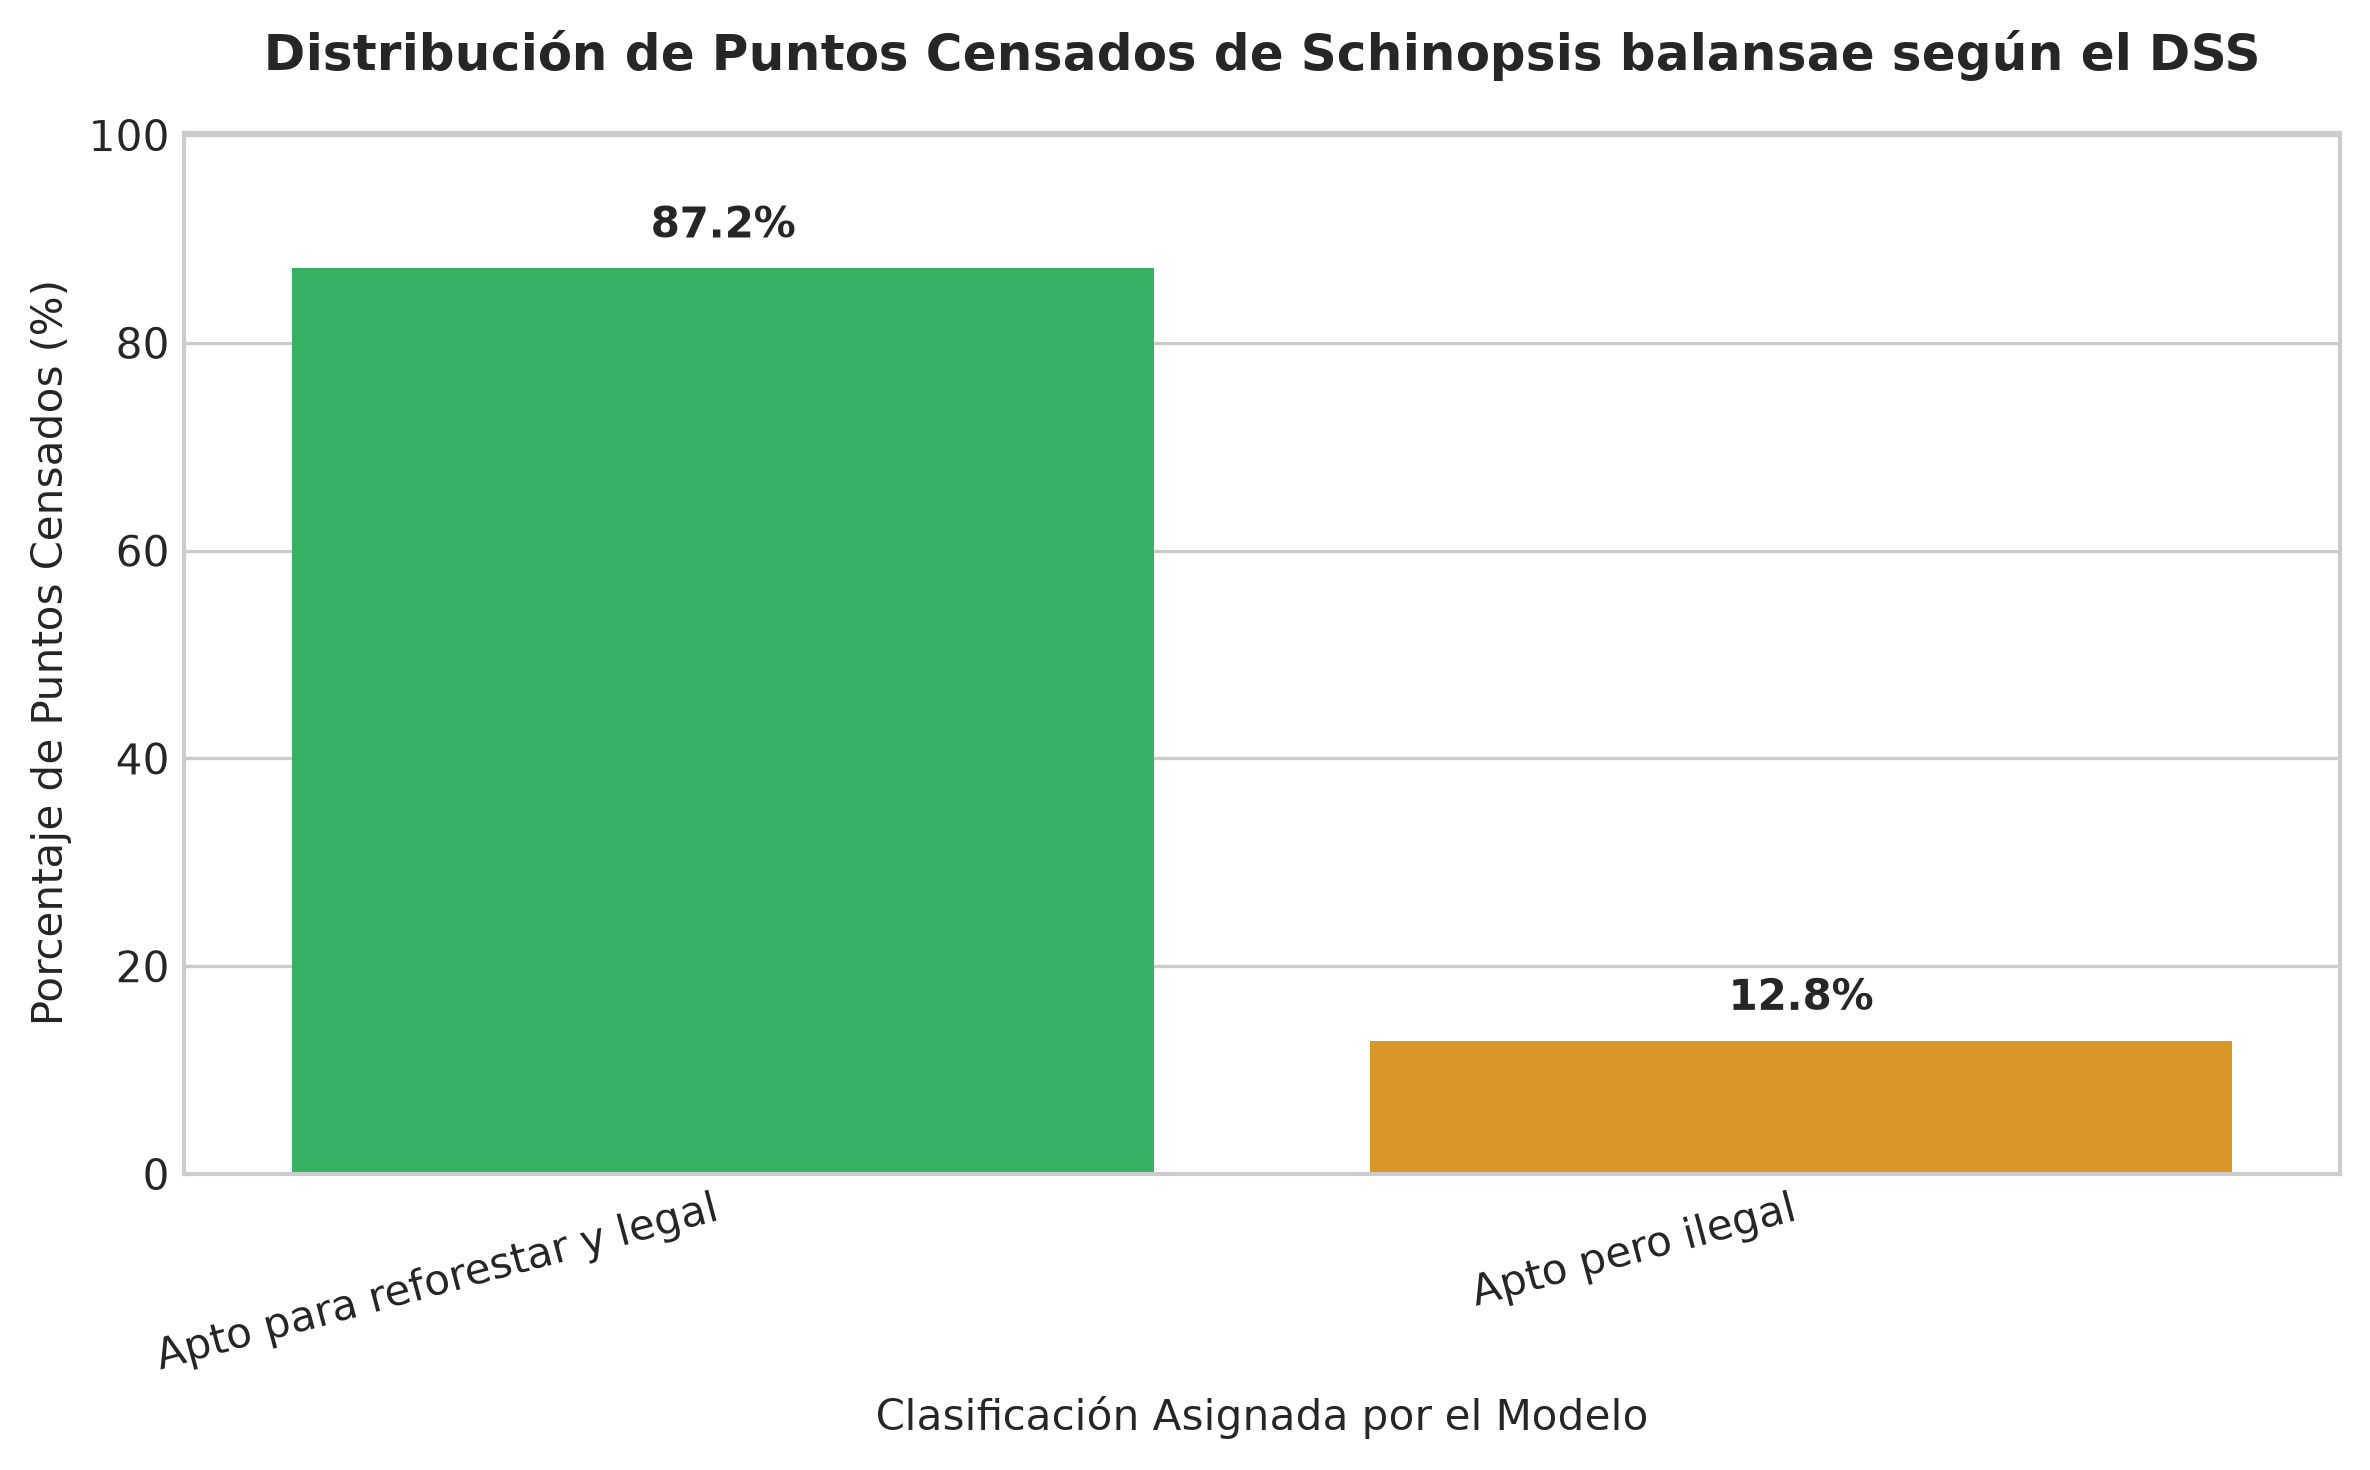
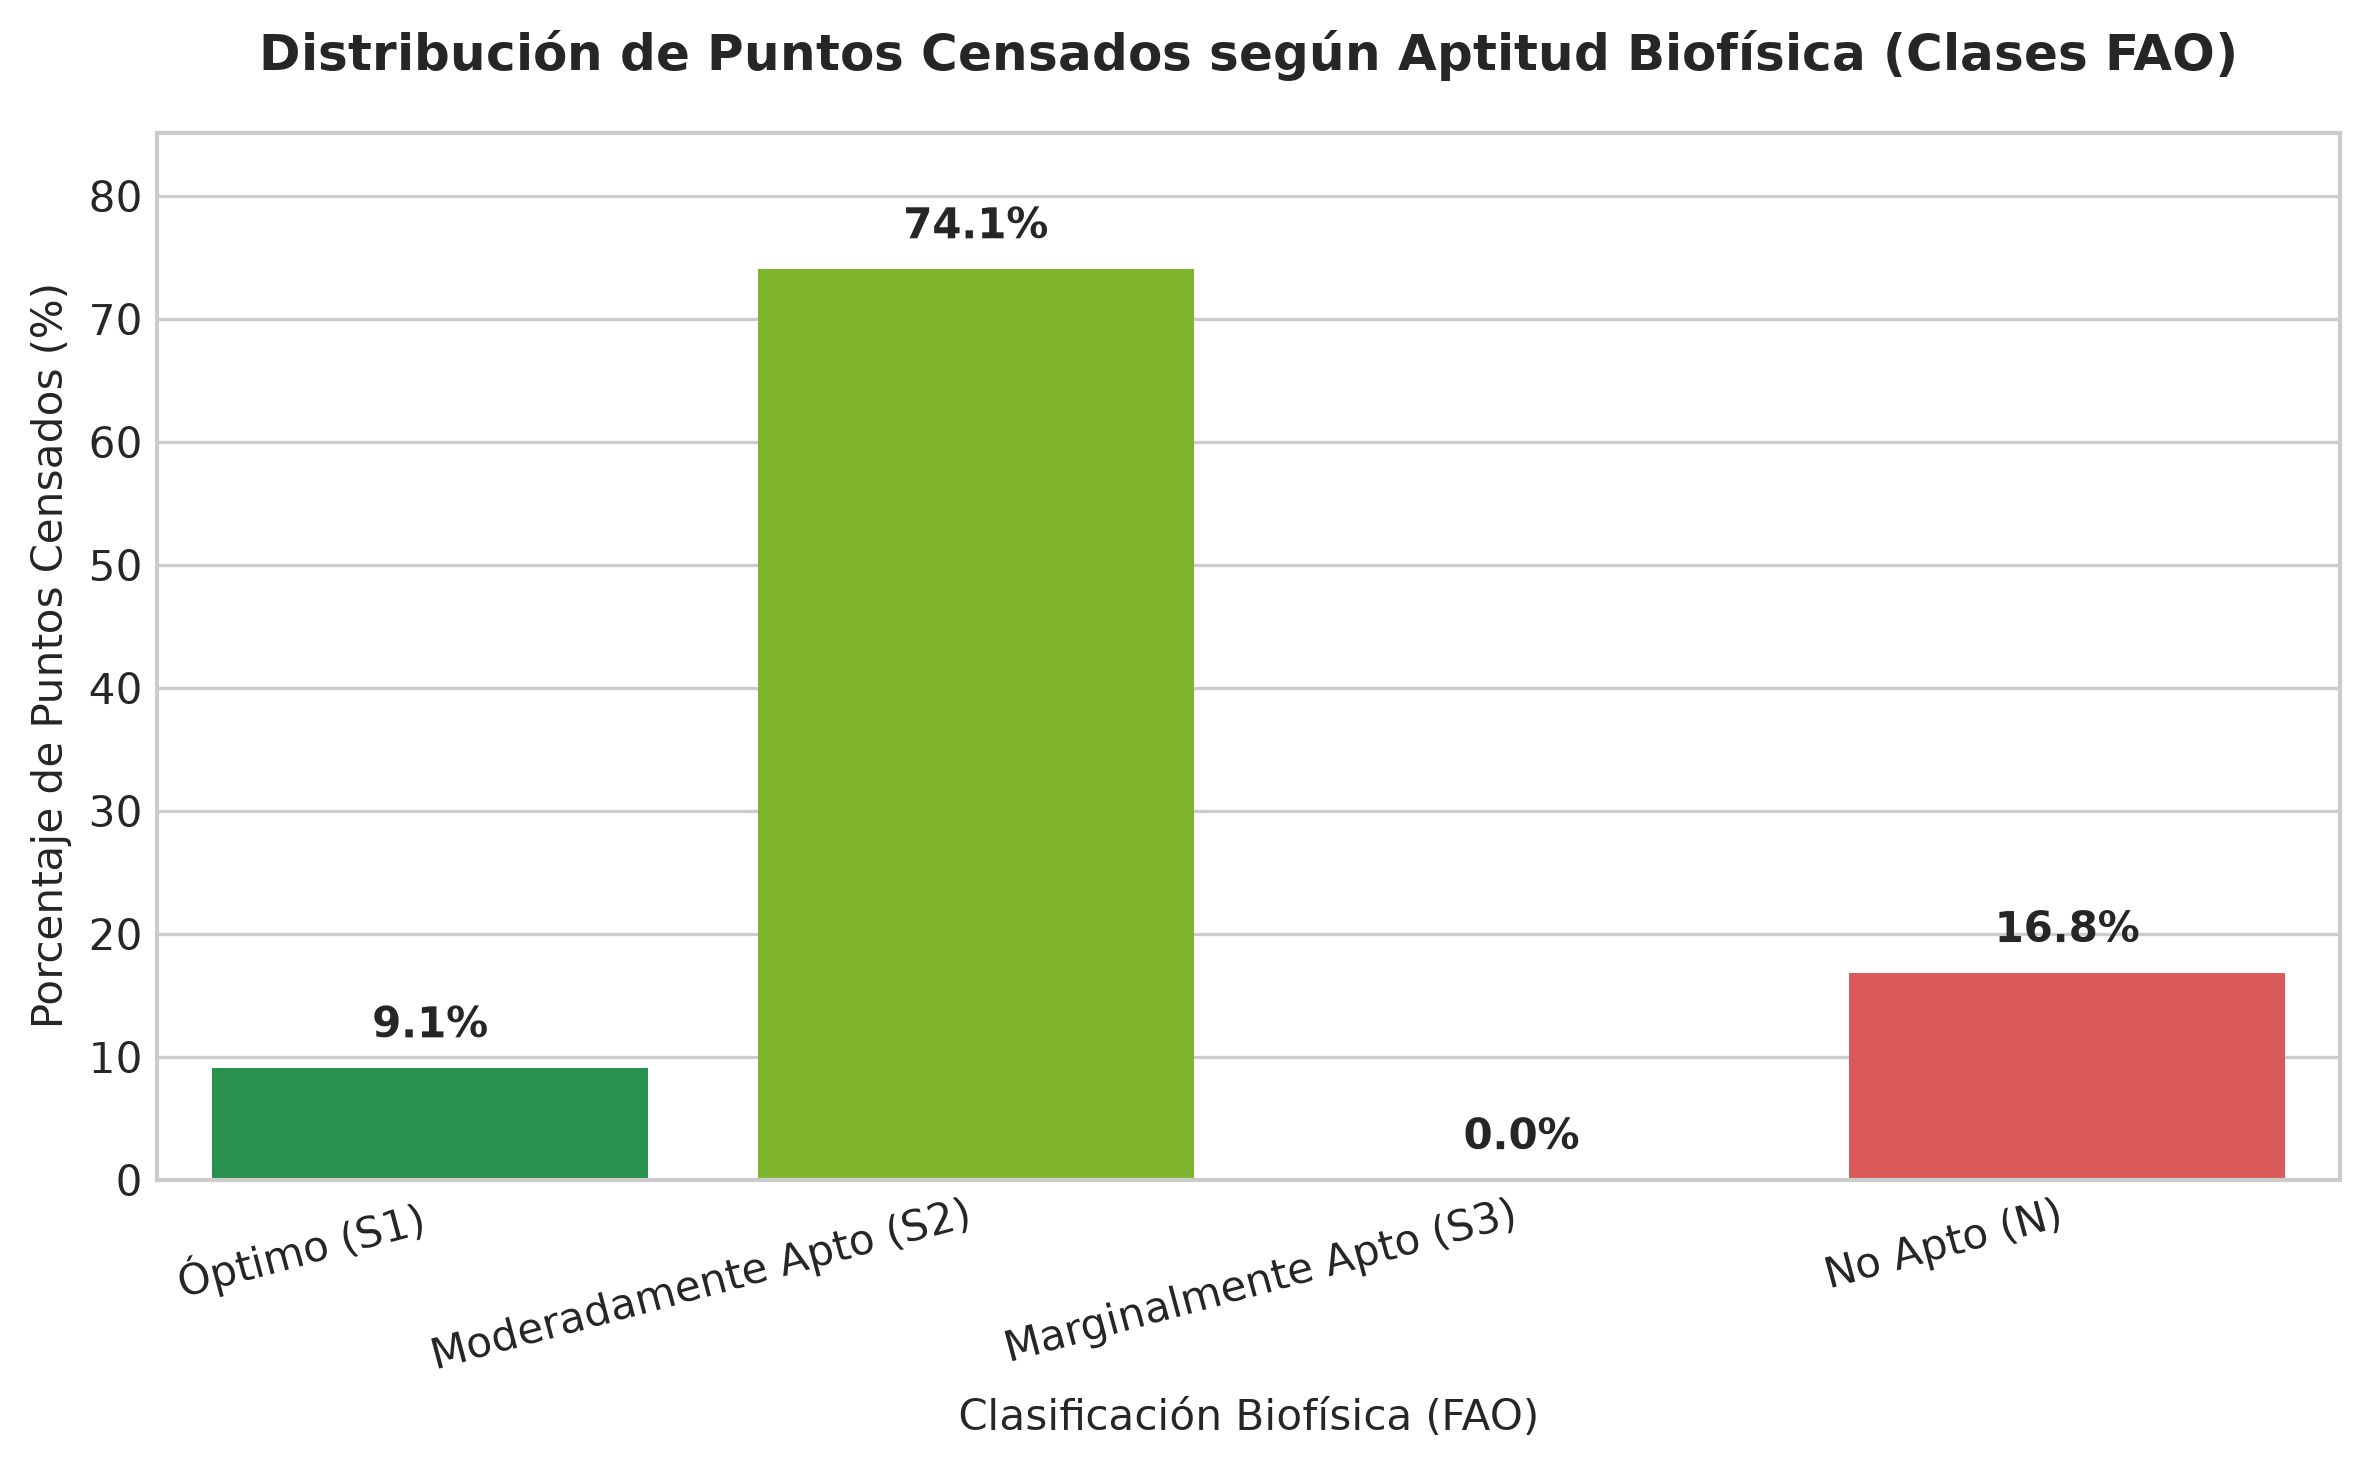
Ajuste de umbral de aptitud de suelo e incorporacion de validacion empirica del censo segun las clases FAO

diff --git a/js/app.js b/js/app.js
@@ -444,4 +444,4 @@ function descargarReportePDF(poligonoId) {
     // Al tener la cabecera Content-Disposition, el navegador no abandonará 
     // la aplicación de Leaflet, simplemente iniciará la descarga en segundo plano.
     window.location.href = urlEndpoint;
-}
+} 

diff --git a/validacion_censo.py b/validacion_censo.py
@@ -3,6 +3,7 @@ import pandas as pd
 import geopandas as gpd
 import matplotlib.pyplot as plt
 import seaborn as sns
+import numpy as np
 from sqlalchemy import create_engine
 from src.db_connector import DBConnector
 
@@ -14,15 +15,14 @@ plt.rcParams['font.family'] = 'sans-serif'
 def ejecutar_validacion_censo(tabla_censo='quebracho_final'):
     """
     Realiza el análisis cuantitativo de solapamiento entre los puntos del censo
-    y la capa de aptitud territorial calculada por el DSS.
+    y la capa de aptitud territorial calculada por el DSS (Solo variables biofísicas).
     """
     db = DBConnector()
     engine = db.engine
     
-    # 1. Cargar el mapa de aptitud final
+    # 1. Cargar el mapa de aptitud final (Agregamos aptitud_suelo para el Kill-Switch)
     query_mapa = """
-        SELECT id, aptitud_biofisica, mascara_otbn, prop_otbn, 
-            clasificacion_final, aptitud_final, geom 
+        SELECT id, aptitud_biofisica, aptitud_suelo, geom 
         FROM mapa_aptitud_final;
     """
     mapa_gdf = db.cargar_capa_postgis(query_mapa, geom_col='geom')
@@ -55,26 +55,43 @@ def ejecutar_validacion_censo(tabla_censo='quebracho_final'):
         return
 
     # ==========================================
-    # METRICA A: MATRIZ DE COINCIDENCIA / CONTAGIO
+    # CLASIFICACIÓN BIOFÍSICA PURA (ESTÁNDAR FAO)
     # ==========================================
-    print("\n--- MATRIZ DE COINCIDENCIA POR CLASIFICACIÓN FINAL ---")
-    conteo_clasificacion = cruce_gdf['clasificacion_final'].value_counts()
+    condiciones_fao = [
+        (cruce_gdf['aptitud_suelo'] <= 0.40) | (cruce_gdf['aptitud_biofisica'] < 0.40), # Restricción letal
+        (cruce_gdf['aptitud_biofisica'] >= 0.40) & (cruce_gdf['aptitud_biofisica'] < 0.60),
+        (cruce_gdf['aptitud_biofisica'] >= 0.60) & (cruce_gdf['aptitud_biofisica'] < 0.80),
+        (cruce_gdf['aptitud_biofisica'] >= 0.80)
+    ]
+    
+    categorias_fao = [
+        'No Apto (N)',
+        'Marginalmente Apto (S3)',
+        'Moderadamente Apto (S2)',
+        'Óptimo (S1)'
+    ]
+    
+    cruce_gdf['clase_fao'] = np.select(condiciones_fao, categorias_fao, default='No Apto (N)')
+
+    print("\n--- DISTRIBUCIÓN BIOFÍSICA (FAO) ---")
+    conteo_clasificacion = cruce_gdf['clase_fao'].value_counts().reindex(categorias_fao[::-1]).fillna(0)
     porcentaje_clasificacion = (conteo_clasificacion / total_puntos_validados) * 100
 
     df_resumen = pd.DataFrame({
-        'Cantidad_Puntos': conteo_clasificacion,
+        'Cantidad_Puntos': conteo_clasificacion.astype(int),
         'Porcentaje (%)': porcentaje_clasificacion.round(2)
     })
     print(df_resumen)
 
     # ==========================================
-    # METRICA B: TASA DE ACIERTO BIOFÍSICO (> 0.65)
+    # TASA DE ACIERTO BIOFÍSICO (S1 + S2)
     # ==========================================
-    puntos_aptos_biofisico = cruce_gdf[cruce_gdf['aptitud_biofisica'] >= 0.65]
+    # Consideramos acierto a las categorías S1 y S2 (aptitud >= 0.60 y suelo > 0.40)
+    puntos_aptos_biofisico = cruce_gdf[cruce_gdf['clase_fao'].isin(['Óptimo (S1)', 'Moderadamente Apto (S2)'])]
     tasa_acierto_biofisico = (len(puntos_aptos_biofisico) / total_puntos_validados) * 100
 
     print("\n--- TASA DE ACIERTO BIOFÍSICO ---")
-    print(f"Puntos con Aptitud Biofísica >= 0.65: {len(puntos_aptos_biofisico)} / {total_puntos_validados}")
+    print(f"Puntos en categorías S1 y S2: {len(puntos_aptos_biofisico)} / {total_puntos_validados}")
     print(f"Tasa de Validación Biofísica: {tasa_acierto_biofisico:.2f}%")
 
     # ==========================================
@@ -83,9 +100,10 @@ def ejecutar_validacion_censo(tabla_censo='quebracho_final'):
     fig, ax = plt.subplots(figsize=(8, 5), dpi=300)
     
     colores = {
-        'Apto para reforestar y legal': '#22c55e',
-        'Apto pero ilegal': '#f59e0b',
-        'No apto': '#ef4444'
+        'Óptimo (S1)': '#16a34a',             # Verde fuerte
+        'Moderadamente Apto (S2)': '#84cc16', # Verde claro/lima
+        'Marginalmente Apto (S3)': '#eab308', # Amarillo
+        'No Apto (N)': '#ef4444'              # Rojo
     }
     
     # Asignar paleta basada en las categorías presentes
@@ -110,9 +128,9 @@ def ejecutar_validacion_censo(tabla_censo='quebracho_final'):
             fontsize=10, fontweight='bold'
         )
 
-    ax.set_title('Distribución de Puntos Censados de Schinopsis balansae según el DSS', fontsize=12, fontweight='bold', pad=15)
+    ax.set_title('Distribución de Puntos Censados según Aptitud Biofísica (Clases FAO)', fontsize=12, fontweight='bold', pad=15)
     ax.set_ylabel('Porcentaje de Puntos Censados (%)', fontsize=10)
-    ax.set_xlabel('Clasificación Asignada por el Modelo', fontsize=10)
+    ax.set_xlabel('Clasificación Biofísica (FAO)', fontsize=10)
     ax.set_ylim(0, max(df_resumen['Porcentaje (%)']) * 1.15)
     plt.xticks(rotation=15, ha='right')
     plt.tight_layout()

diff --git a/src/db_connector.py b/src/db_connector.py
@@ -2,6 +2,7 @@ import os
 from sqlalchemy import create_engine
 import geopandas as gpd
 from dotenv import load_dotenv
+from sqlalchemy import text, inspect
 
 # Le indicamos a Python que lea el archivo .env oculto
 load_dotenv()
@@ -38,6 +39,17 @@ class DBConnector:
             raise ValueError(f"No se encontraron metadatos para el polígono ID: {poligono_id}")
 
     # Exporta y guarda GeoDataFrames procesados de vuelta a PostGIS.
-    def guardar_resultado(self, gdf, nombre_tabla):
-        gdf.to_postgis(nombre_tabla, con=self.engine, if_exists='replace', index=False)
-        print(f"Capa '{nombre_tabla}' exportada exitosamente a PostGIS.")
+    def guardar_resultado(self, gdf, nombre_tabla='mapa_aptitud_final'):
+        inspector = inspect(self.engine)
+        
+        # Si la tabla ya existe, la vaciamos sin destruir su estructura
+        if inspector.has_table(nombre_tabla):
+            with self.engine.begin() as conn:
+                conn.execute(text(f"DELETE FROM {nombre_tabla};"))
+            modo_guardado = 'append'
+        else:
+            modo_guardado = 'replace'
+            
+        # Insertar los nuevos datos procesados
+        gdf.to_postgis(nombre_tabla, con=self.engine, if_exists=modo_guardado, index=False)
+        print(f"Datos guardados exitosamente en la tabla '{nombre_tabla}'.")

diff --git a/src/reforestacion_pipeline.py b/src/reforestacion_pipeline.py
@@ -55,6 +55,8 @@ class ReforestationPipeline:
             (df_resultado['aptitud_ndvi'] * pesos['ndvi'])
         ).clip(0.0, 1.0)
 
+        df_resultado.loc[df_resultado['aptitud_suelo'] <= 0.40, 'aptitud_biofisica'] = 0.0
+
         # Evaluación Vectorial de Restricciones Críticas (MapBiomas y OTBN)
         print("[3/4] Evaluando restricciones de uso de suelo y gobernanza legal (OTBN)")
         
@@ -71,7 +73,7 @@ class ReforestationPipeline:
 
         # Umbral científico de aptitud biofísica y viabilidad del sustrato edáfico
         UMBRAL_APTITUD = 0.60
-        es_apto_biofisico = (df_resultado['aptitud_biofisica'] >= UMBRAL_APTITUD) & (df_resultado['aptitud_suelo'] > 0.10)
+        es_apto_biofisico = (df_resultado['aptitud_biofisica'] >= UMBRAL_APTITUD) & (df_resultado['aptitud_suelo'] >= 0.40)
 
         # Clasificación Estricta en las 3 Categorías
         print("[4/4] Clasificando polígonos bajo criterios edafoclimáticos y legales...")
